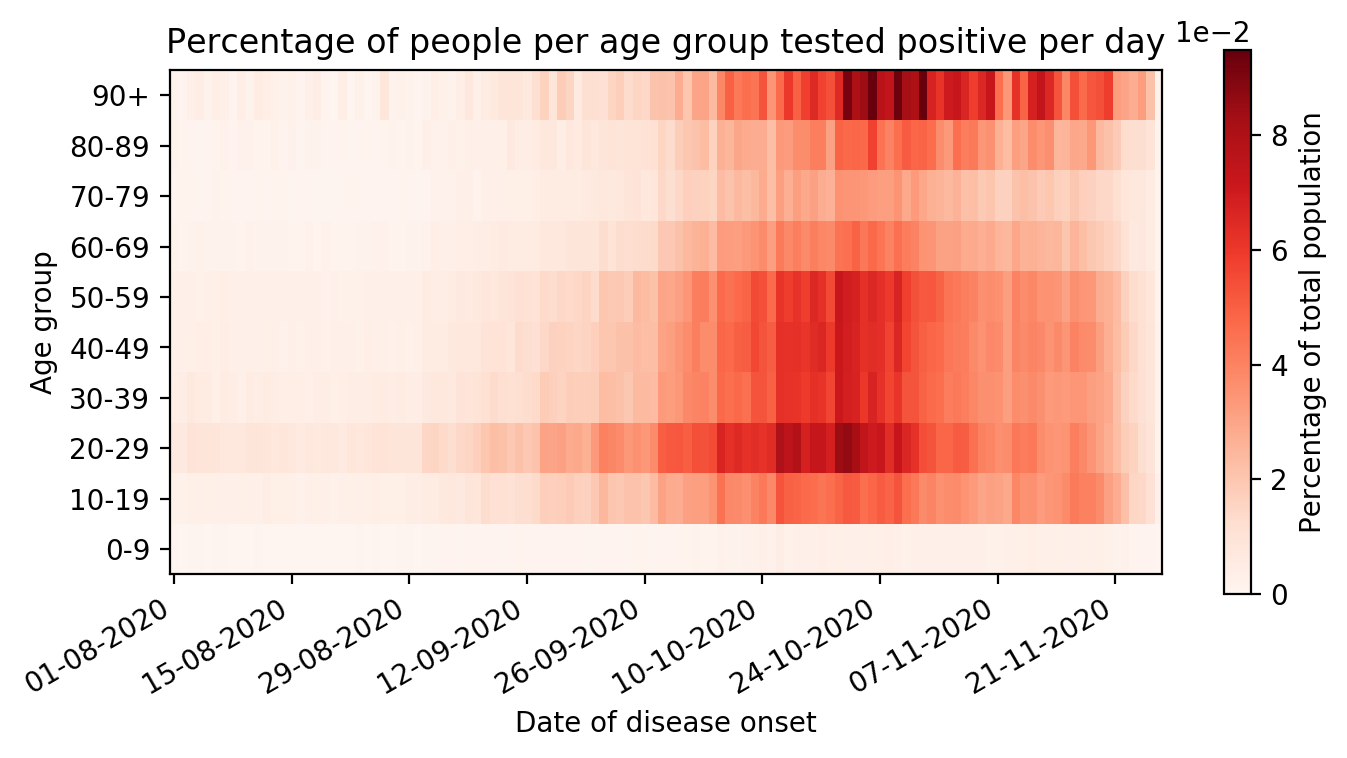
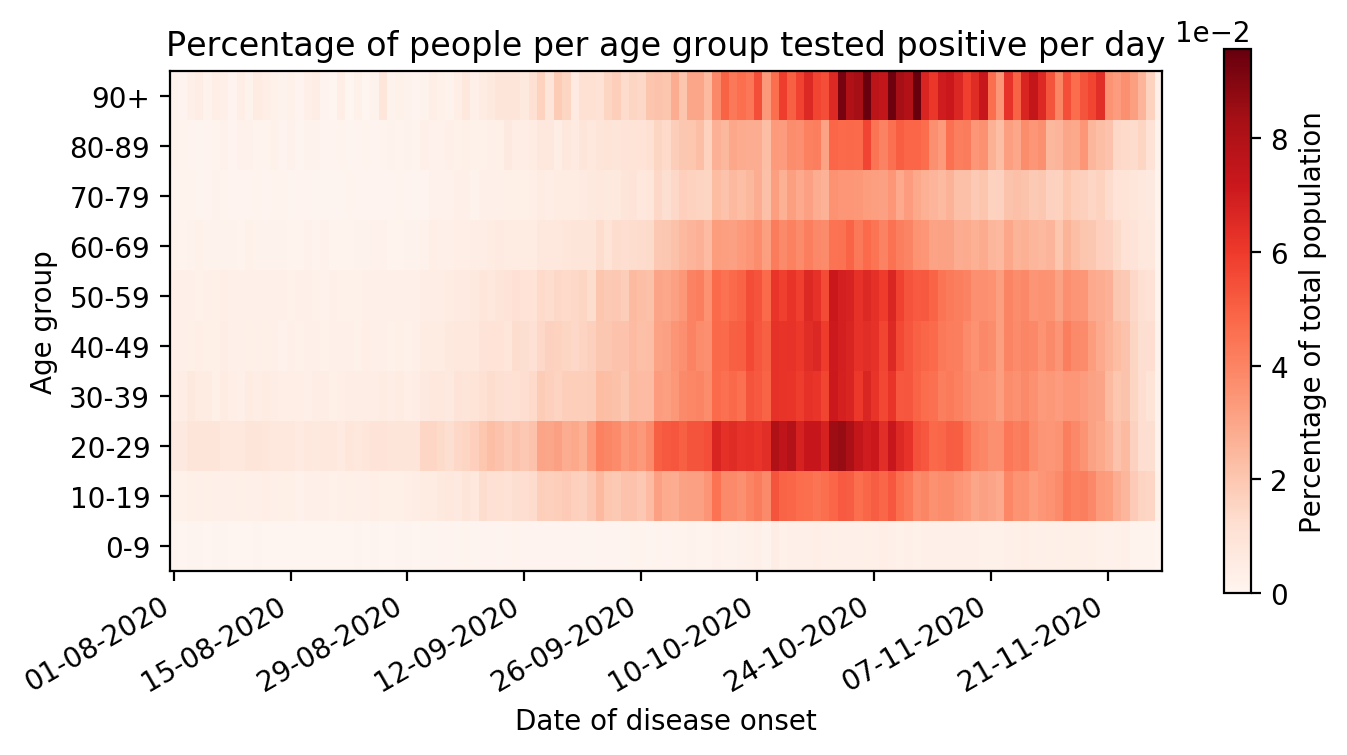
Updated data and plots

diff --git a/model_coronavirus_supression.py b/model_coronavirus_supression.py
@@ -700,7 +700,7 @@ def load_cluster_data():
 	df_clusters = pd.get_dummies(df_clusters['Setting']).reindex(columns = all_settings, fill_value = 0)
 
 	#then group by week
-	df_clusters = df_clusters.groupby([pd.Grouper(freq = 'W-MON')])[all_settings].sum().reset_index().sort_index()#.sort_values('Date')
+	df_clusters = df_clusters.groupby([pd.Grouper(freq = 'W-MON')])[all_settings].sum().reset_index().sort_index()
 
 	df_clusters.set_index('Date', inplace = True)
 
@@ -872,6 +872,10 @@ def plot_prevalence_R():
 	df_R0 = df_R0.loc[df_R0.index > startdate]
 	df_response = df_response.loc[df_response.index > startdate]
 
+	print('----\nLatest data')
+	print(f'Prevalence: {df_prevalence.loc[df_prevalence["prev_avg"].notnull()].index[-1]}')
+	print(f'R: {df_R0.loc[df_R0["Rt_avg"].notnull()].index[-1]}')
+	print('----')
 
 	fig, ax1 = plt.subplots()
 	ax2 = ax1.twinx()
@@ -977,8 +981,6 @@ def plot_sewage():
 
 	df_sewage = df_sewage.loc[df_sewage.index > '2020-02-05']
 
-	print(df_sewage.tail())
-
 	fig, ax1 = plt.subplots()
 	ax2 = ax1.twinx()
 
@@ -986,6 +988,8 @@ def plot_sewage():
 
 	ax2.scatter(df_sewage.index, df_sewage['RNA_flow_per_100000'], color = betterorange, label = 'Average RNA abundance', alpha = 0.6, s = 5)
 	ln2 = ax2.plot(df_sewage.index, df_sewage['RNA_flow_smooth'], color = betterorange, label = 'Average RNA abundance smoothed')
+
+	indicate_school_closed(ax2)
 
 	ax1.xaxis.set_tick_params(rotation = 45)
 
@@ -1259,6 +1263,8 @@ def plot_individual_data(use_agegroups = True):
 			ax.legend(loc = 'best', title = 'Age group')
 
 			ax.grid(linestyle = ':')
+
+			indicate_school_closed(ax)
 
 			#fix the date labels
 			ax.set_xticks(pd.date_range(np.min(df_individual.index), np.max(df_individual.index), freq = '14D', format = '%d-%m-%Y').to_series())
@@ -1946,24 +1952,19 @@ def estimate_recent_prevalence(enddate_train = '2020-11-01', smoothsize = 5):
 
 def main():
 	# government_response_results_simple()
-
 	# plot_hospitalization()
-
 	# stringency_R_correlation()
-
 	# plot_superspreader_events()
 
-	estimate_recent_R(enddate_train = '2020-10-28')
-
-	estimate_recent_prevalence(enddate_train = '2020-11-01')
-
 	# plot_prevalence_R()
-
 	# plot_mobility()
 	# plot_daily_results()
 	# plot_sewage()
 	# plot_individual_data()
 	# plot_cluster_change()
+
+	# estimate_recent_R(enddate_train = '2020-11-06')
+	estimate_recent_prevalence(enddate_train = '2020-11-10')
 
 if __name__ == '__main__':
 	main()
